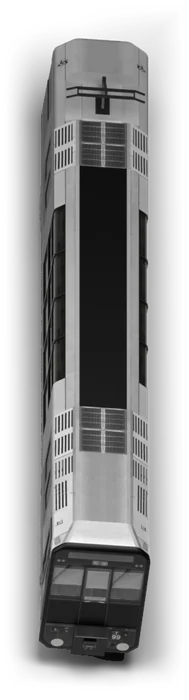
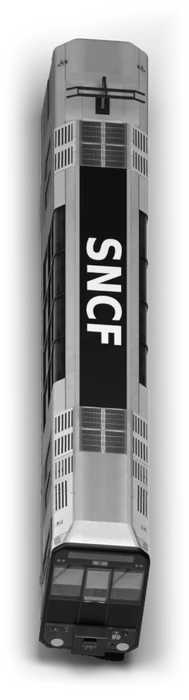
Train : inscription SNCF sur le toit, déplacement fluide à vitesse limitée entre les gares
Claude-Session: https://claude.ai/code/session_01KC96syTDh99D9E7j16QXSb

Changed region(s): [[0.4497, 0.33, 0.6614, 0.51]]

diff --git a/frontend/blender/train/rendu-train.py b/frontend/blender/train/rendu-train.py
@@ -78,6 +78,19 @@ for m in bpy.data.materials:
     else:
         regler(m)
 
+# ---- Inscription « SNCF » sur le toit (lettres blanches, en relief très léger), dans le sens de la longueur
+bpy.ops.object.text_add(location=(0, -0.4, 1.535))
+texte = bpy.context.active_object
+texte.data.body = 'SNCF'
+texte.data.align_x = 'CENTER'; texte.data.align_y = 'CENTER'
+texte.data.size = 1.3
+texte.data.extrude = 0.004
+texte.data.font = bpy.data.fonts.load('/usr/share/fonts/truetype/dejavu/DejaVuSans-Bold.ttf') if os.path.exists('/usr/share/fonts/truetype/dejavu/DejaVuSans-Bold.ttf') else texte.data.font
+texte.rotation_euler = (0, 0, math.radians(float(os.environ.get('ROT_TEXTE', '90'))))
+mt = bpy.data.materials.new('Inscription'); mt.use_nodes = True
+bt = mt.node_tree.nodes['Principled BSDF']; bt.inputs['Base Color'].default_value = (0.95, 0.95, 0.95, 1); bt.inputs['Roughness'].default_value = 0.5
+texte.data.materials.append(mt)
+
 # ---- Phares (2 disques à l'avant) et faisceau sur la voie
 def phare(x):
     bpy.ops.mesh.primitive_circle_add(vertices=24, radius=0.11, fill_type='NGON', location=(x, 5.79, -0.55), rotation=(math.radians(90), 0, 0))
